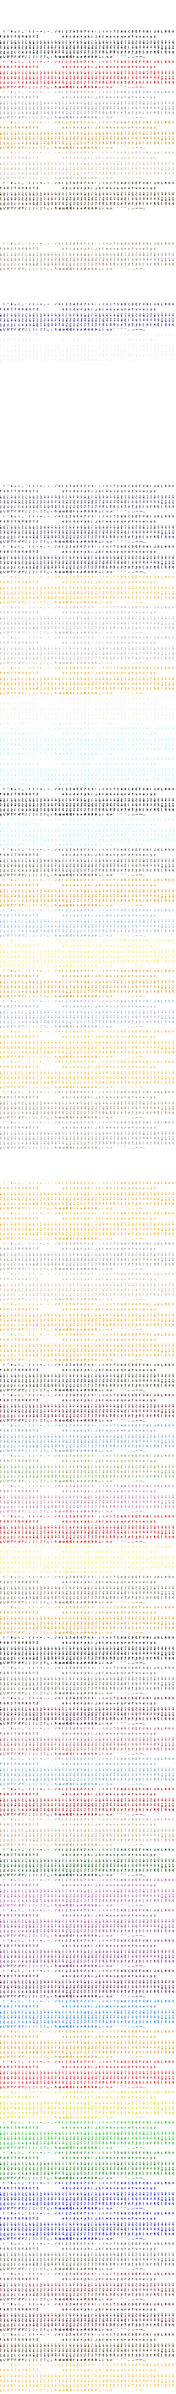
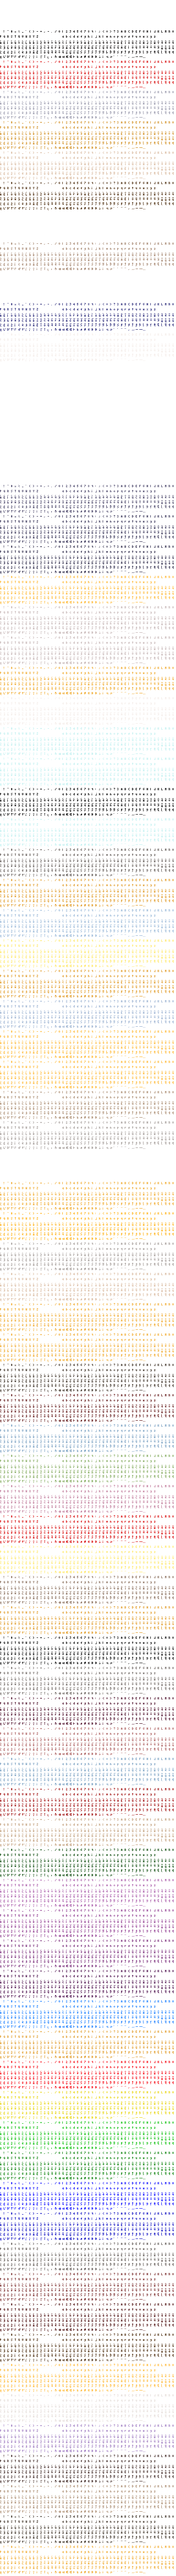
Client: spell picks step in the original's colours (realm title, spell names, picks left)
Claude-Session: https://claude.ai/code/session_01UzZBhwt2FKjV12uJDZtxw8

diff --git a/crates/f4x-client/src/newgame_picks.rs b/crates/f4x-client/src/newgame_picks.rs
@@ -17,21 +17,29 @@ use f4x_core::wizard::{retort_available, retort_cost, ALL_RETORTS, MAX_RETORTS};
 use macroquad::prelude::*;
 
 use crate::create_screen::Step;
+use crate::font::Ink;
+use crate::font_ramp;
 use crate::frame::Layout;
 use crate::newgame_flow::{book_base, GOLD_INK, GREY_INK, LIGHT, SHADOW};
 use crate::view::App;
 
 /// The realms in the order of the rows and of `TBL_Realm_Order`.
 pub(crate) const REALM_ORDER: [&str; 5] = ["life", "death", "chaos", "nature", "sorcery"];
-/// The realms' ink on the spells step.
-fn realm_ink(realm: &str) -> Color {
+/// The realms' colour on the spells step (`LIFE_WHITE` and the others of `MOX_DEF.h`), a palette index.
+fn realm_colour(realm: &str) -> u8 {
     match realm {
-        "life" => Color::new(0.95, 0.95, 0.9, 1.0),
-        "death" => Color::new(0.7, 0.5, 0.85, 1.0),
-        "chaos" => Color::new(0.95, 0.4, 0.3, 1.0),
-        "nature" => Color::new(0.4, 0.85, 0.4, 1.0),
-        _ => Color::new(0.45, 0.6, 0.98, 1.0),
+        "life" => 13,
+        "death" => 114,
+        "chaos" => 201,
+        "nature" => 216,
+        _ => 172,
     }
+}
+
+/// The spells step's text: the colour of `Set_Font_Colors_15` on its own, the shadow one pixel
+/// right and below (`Print` twice in the original).
+fn pick_ink(font: usize, colour: u8) -> Style {
+    Style::inked(font, Ink::Set(font_ramp::flat(colour)))
 }
 
 /// What a retort needs, in the words of the original's refusal ("To select X you need: ...").
@@ -288,22 +296,9 @@ impl CreateState {
         // The picks left, the abilities, the name and the OK button.
         let left = self.build.picks_left();
         let count = app.text_with("picks.left", &Args::new().count("n", left));
-        // ReMoM prints the light text first and the shadow over it, which buries the words;
-        // the shadow goes underneath.
-        app.draw_styled(
-            view,
-            &Style::nearest(3, SHADOW).center(),
-            &count,
-            222.0,
-            186.0,
-        );
-        app.draw_styled(
-            view,
-            &Style::nearest(3, LIGHT).center(),
-            &count,
-            221.0,
-            185.0,
-        );
+        // `m_dark_colors` (31) on `m_light_colors` (187), the light one pixel right and below.
+        app.draw_styled(view, &pick_ink(3, 187).center(), &count, 222.0, 186.0);
+        app.draw_styled(view, &pick_ink(3, 31).center(), &count, 221.0, 185.0);
         let name = self.build.name.clone();
         app.ng_name(lay, &name);
         self.ng_abilities(app, lay);
@@ -384,19 +379,18 @@ impl CreateState {
             .realms
             .by_name(realm)
             .map_or_else(|| realm.to_string(), |r| r.name.clone());
-        let ink = realm_ink(realm);
+        let ink = realm_colour(realm);
         let title = app.text_with(
             "picks.select_spells",
             &Args::new().text("realm", &realm_name),
         );
         app.draw_styled(
             view,
-            &Style::nearest(4, SHADOW).center(),
+            &pick_ink(4, ink).shadow().edge(SHADOW).center(),
             &title,
-            242.0,
-            7.0,
+            241.0,
+            6.0,
         );
-        app.draw_styled(view, &Style::nearest(4, ink).center(), &title, 241.0, 6.0);
         let books = self.build.books.clone();
         self.ng_shelf(app, lay, &REALM_ORDER, &|r| {
             books.get(r).copied().unwrap_or(0)
@@ -418,7 +412,7 @@ impl CreateState {
             });
             app.draw_styled(
                 view,
-                &Style::nearest(3, ink),
+                &pick_ink(3, ink).shadow().edge(SHADOW),
                 &app.text_with(
                     "picks.rarity_row",
                     &Args::new().text("rarity", label).count("n", want),
@@ -444,15 +438,11 @@ impl CreateState {
                 let y = top + 7.0 * row as f32 + 1.0;
                 let name = app.game.content().rules.spells.get(*id).name.clone();
                 let selected = self.build.spells.contains(id);
-                app.draw_styled(view, &Style::nearest(0, SHADOW), &name, x + 1.0, y + 1.0);
-                let colour = if selected {
-                    Color::new(1.0, 0.95, 0.6, 1.0)
-                } else {
-                    GREY_INK
-                };
+                // `m_select_spells_*_colors`: 178 chosen, 50 not, the shadow 16 one pixel to the right.
+                app.draw_styled(view, &pick_ink(0, 16), &name, x + 1.0, y);
                 app.draw_styled(
                     view,
-                    &Style::nearest(0, if selected { colour } else { LIGHT }),
+                    &pick_ink(0, if selected { 178 } else { 50 }),
                     &name,
                     x,
                     y,
@@ -488,22 +478,9 @@ impl CreateState {
             self.warn = Some(app.text("picks.none_left_here"));
         }
         let count = app.text_with("picks.left", &Args::new().count("n", remaining));
-        // ReMoM prints the light text first and the shadow over it, which buries the words;
-        // the shadow goes underneath.
-        app.draw_styled(
-            view,
-            &Style::nearest(3, SHADOW).center(),
-            &count,
-            222.0,
-            186.0,
-        );
-        app.draw_styled(
-            view,
-            &Style::nearest(3, LIGHT).center(),
-            &count,
-            221.0,
-            185.0,
-        );
+        // `m_dark_colors` (31) on `m_light_colors` (187), the light one pixel right and below.
+        app.draw_styled(view, &pick_ink(3, 187).center(), &count, 222.0, 186.0);
+        app.draw_styled(view, &pick_ink(3, 31).center(), &count, 221.0, 185.0);
         let name = self.build.name.clone();
         app.ng_name(lay, &name);
         self.ng_abilities(app, lay);

diff --git a/crates/f4x-client/src/font_ramp.rs b/crates/f4x-client/src/font_ramp.rs
@@ -129,8 +129,20 @@ pub(crate) const FLAT_47: usize = 76;
 pub(crate) const FLAT_55: usize = 77;
 /// palette colour 177 on its own.
 pub(crate) const FLAT_177: usize = 78;
+/// palette colour 13 on its own.
+pub(crate) const FLAT_13: usize = 79;
+/// palette colour 114 on its own.
+pub(crate) const FLAT_114: usize = 80;
+/// palette colour 16 on its own.
+pub(crate) const FLAT_16: usize = 81;
+/// palette colour 31 on its own.
+pub(crate) const FLAT_31: usize = 82;
+/// palette colour 187 on its own.
+pub(crate) const FLAT_187: usize = 83;
+/// palette colour 178 on its own.
+pub(crate) const FLAT_178: usize = 84;
 /// How many ramps there are; the atlases of styles 0 to 5 stack 16 + this many colour sets.
-pub(crate) const COUNT: usize = 63;
+pub(crate) const COUNT: usize = 69;
 
 /// The colour set of one palette colour on its own (`FLATS` in the script); a colour not
 /// listed there panics: add it to `FLATS` and run the script again.
@@ -161,6 +173,12 @@ pub(crate) fn flat(index: u8) -> usize {
         47 => FLAT_47,
         55 => FLAT_55,
         177 => FLAT_177,
+        13 => FLAT_13,
+        114 => FLAT_114,
+        16 => FLAT_16,
+        31 => FLAT_31,
+        187 => FLAT_187,
+        178 => FLAT_178,
         other => panic!("{other}"),
     }
 }

diff --git a/scripts/font_ramps.py b/scripts/font_ramps.py
@@ -63,7 +63,7 @@ RAMPS = [
 
 # Palette indexes the original makes a one-colour set of (`colors[0..5] = banner_colors[...]`): the
 # banner colours of the wizards' names and enchantments. `flat(index)` in `font_ramp.rs` gives the set.
-FLATS = [0, 6, 39, 43, 98, 166, 50, 79, 123, 124, 125, 127, 172, 179, 201, 211, 216, 218, 221, 222, 5, 45, 47, 55, 177]
+FLATS = [0, 6, 39, 43, 98, 166, 50, 79, 123, 124, 125, 127, 172, 179, 201, 211, 216, 218, 221, 222, 5, 45, 47, 55, 177, 13, 114, 16, 31, 187, 178]
 
 
 def palette_lookup():
